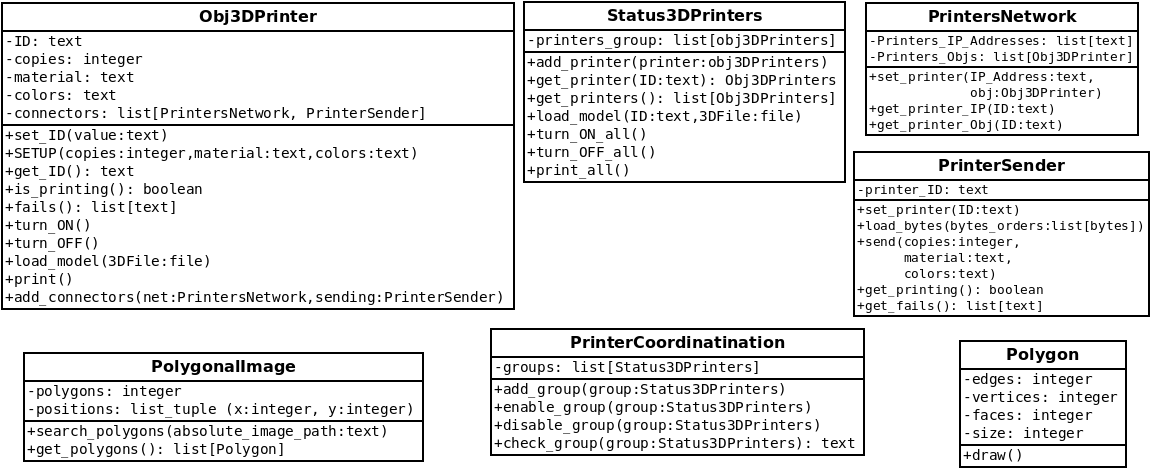
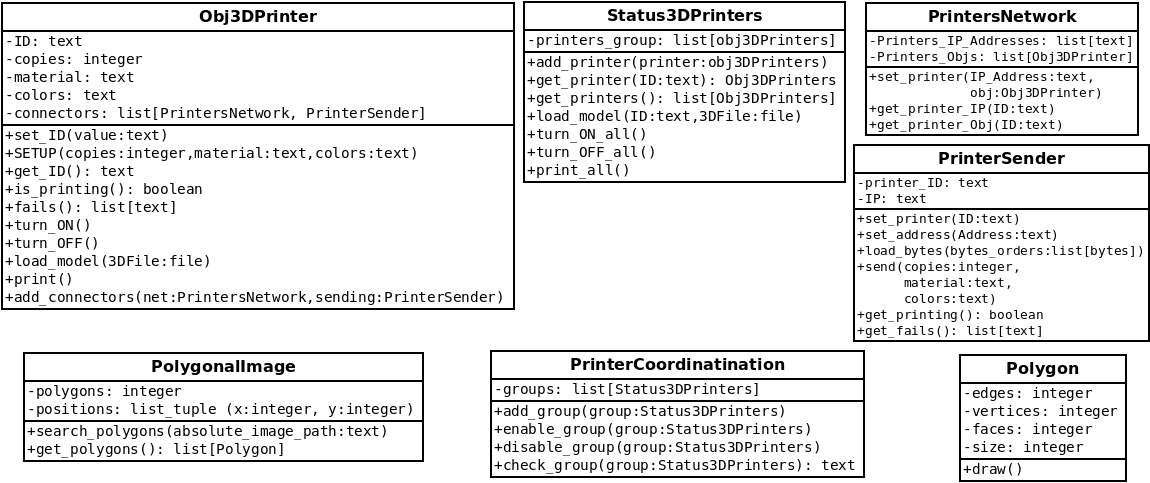
Add: Support For IP address to socket in sender

Changed region(s): [[0.0, 0.0, 1.0, 1.0], [0.0, 0.7179, 0.3652, 0.9872]]

diff --git a/connectors/sender.py b/connectors/sender.py
@@ -6,6 +6,7 @@ class PrinterSender:
             in the Printers Network.
         '''
         self.printer_ID: str = ''
+        self.IP: str = 'x.x.x.x'
         
     def set_printer(self, ID: str):
         '''
@@ -13,6 +14,13 @@ class PrinterSender:
         '''
         self.printer_ID = ID
 
+    def set_address(self, Address: str):
+        '''
+            Add IP addres asociated to the
+            printer.
+        '''
+        self.IP = Address
+        
     def send(self, copies: int, material: str, colors: str):
         '''
             Use WI-FI tools for say to the printer how much copies print,

diff --git a/grouper.py b/grouper.py
@@ -30,6 +30,7 @@ with open('printers/settings.csv', 'r') as setup:
         new_printer.set_ID(line[0])
         # Asociate IP address and Printer name
         net.set_printer(line[1], new_printer)
+        sending.set_address(line[1])
         sending.set_printer(line[0])
         # Say What and How Print To The Printer
         new_printer.SETUP(line[2], line[3], line[4])